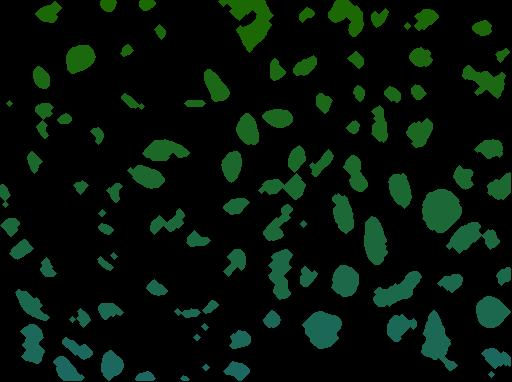
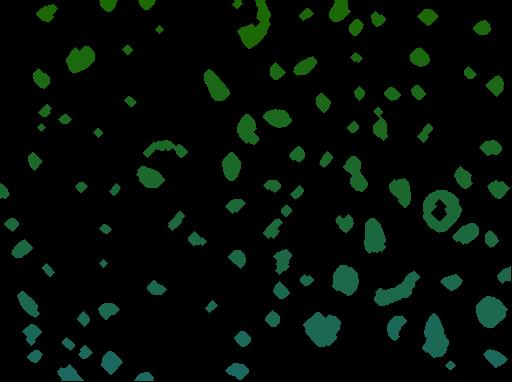
Got labelling to within 10% of manual count

diff --git a/Counter.java b/Counter.java
@@ -45,7 +45,7 @@ public class Counter {
 				img = ImageProcessor.LaplaceSharpen(img);
 				addGuiData(img,"LaplaceSharpen");
 
-				img = ImageProcessor.gammaTransform(img, 3);
+				img = ImageProcessor.gammaTransform(img, 4);
 				addGuiData(img,"Gamma");
 
 				img = ImageProcessor.BWweightedMedianFilter(img);
@@ -59,21 +59,15 @@ public class Counter {
 				addGuiData(img,"Threshold Transform");
 
 				//Post proccessing cleanup.
-				//img = ImageProcessor.BWweightedMedianFilter(img);
-				//addGuiData(img,"WeightMedFilter");
-
-				img = ImageProcessor.openTransform(img, 3);
-				addGuiData(img, "Open 1x");
+				img = ImageProcessor.openTransform(img, 4);
+				addGuiData(img, "Open 3x");
 
 				img = ImageProcessor.closeTransform(img, 3);
-				addGuiData(img, "Close 2x");
-
-				img = ImageProcessor.openTransform(img, 2);
-				addGuiData(img, "Open 2x");
+				addGuiData(img, "Close 3x");
 
 				img = ImageProcessor.binaryTransform(img);
-				//addGuiData(img,"Binary Transform");
 
+				//Labelling
 				cellCount = ImageProcessor.regionLabel(img);
 				addGuiData(img,"Region Count");
 

diff --git a/comp/Counter.java b/comp/Counter.java
@@ -45,7 +45,7 @@ public class Counter {
 				img = ImageProcessor.LaplaceSharpen(img);
 				addGuiData(img,"LaplaceSharpen");
 
-				img = ImageProcessor.gammaTransform(img, 3);
+				img = ImageProcessor.gammaTransform(img, 4);
 				addGuiData(img,"Gamma");
 
 				img = ImageProcessor.BWweightedMedianFilter(img);
@@ -59,21 +59,15 @@ public class Counter {
 				addGuiData(img,"Threshold Transform");
 
 				//Post proccessing cleanup.
-				//img = ImageProcessor.BWweightedMedianFilter(img);
-				//addGuiData(img,"WeightMedFilter");
-
-				img = ImageProcessor.openTransform(img, 3);
-				addGuiData(img, "Open 1x");
+				img = ImageProcessor.openTransform(img, 4);
+				addGuiData(img, "Open 3x");
 
 				img = ImageProcessor.closeTransform(img, 3);
-				addGuiData(img, "Close 2x");
-
-				img = ImageProcessor.openTransform(img, 2);
-				addGuiData(img, "Open 2x");
+				addGuiData(img, "Close 3x");
 
 				img = ImageProcessor.binaryTransform(img);
-				//addGuiData(img,"Binary Transform");
 
+				//Labelling
 				cellCount = ImageProcessor.regionLabel(img);
 				addGuiData(img,"Region Count");
 

diff --git a/README.md b/README.md
@@ -1,1 +1,41 @@
 # Image_Processor
+
+				//Pre proccessing cleanup
+				img = ImageProcessor.autoContrast(img, 0.08);
+				addGuiData(img,"AutoContrast");
+
+				img = ImageProcessor.guassianBlur(ImageProcessor.grayScaleTransform(img));
+				addGuiData(img,"GuassianBlur");
+
+				img = ImageProcessor.BWweightedMedianFilter(img);
+				addGuiData(img,"WeightMedFilter");
+
+				//Getting ready for thresholding.
+				img = ImageProcessor.LaplaceSharpen(img);
+				addGuiData(img,"LaplaceSharpen");
+
+				img = ImageProcessor.gammaTransform(img, 4);
+				addGuiData(img,"Gamma");
+
+				img = ImageProcessor.BWweightedMedianFilter(img);
+				addGuiData(img,"WeightMedFilter");
+
+				img = ImageProcessor.guassianBlur(img);
+				addGuiData(img,"Guassian Blur");
+
+				//Thresholding
+				img = ImageProcessor.thresholdTransform(img, 30);
+				addGuiData(img,"Threshold Transform");
+
+				//Post proccessing cleanup.
+				img = ImageProcessor.openTransform(img, 4);
+				addGuiData(img, "Open 3x");
+
+				img = ImageProcessor.closeTransform(img, 3);
+				addGuiData(img, "Close 3x");
+
+				img = ImageProcessor.binaryTransform(img);
+
+				//Labelling
+				cellCount = ImageProcessor.regionLabel(img);
+				addGuiData(img,"Region Count");
